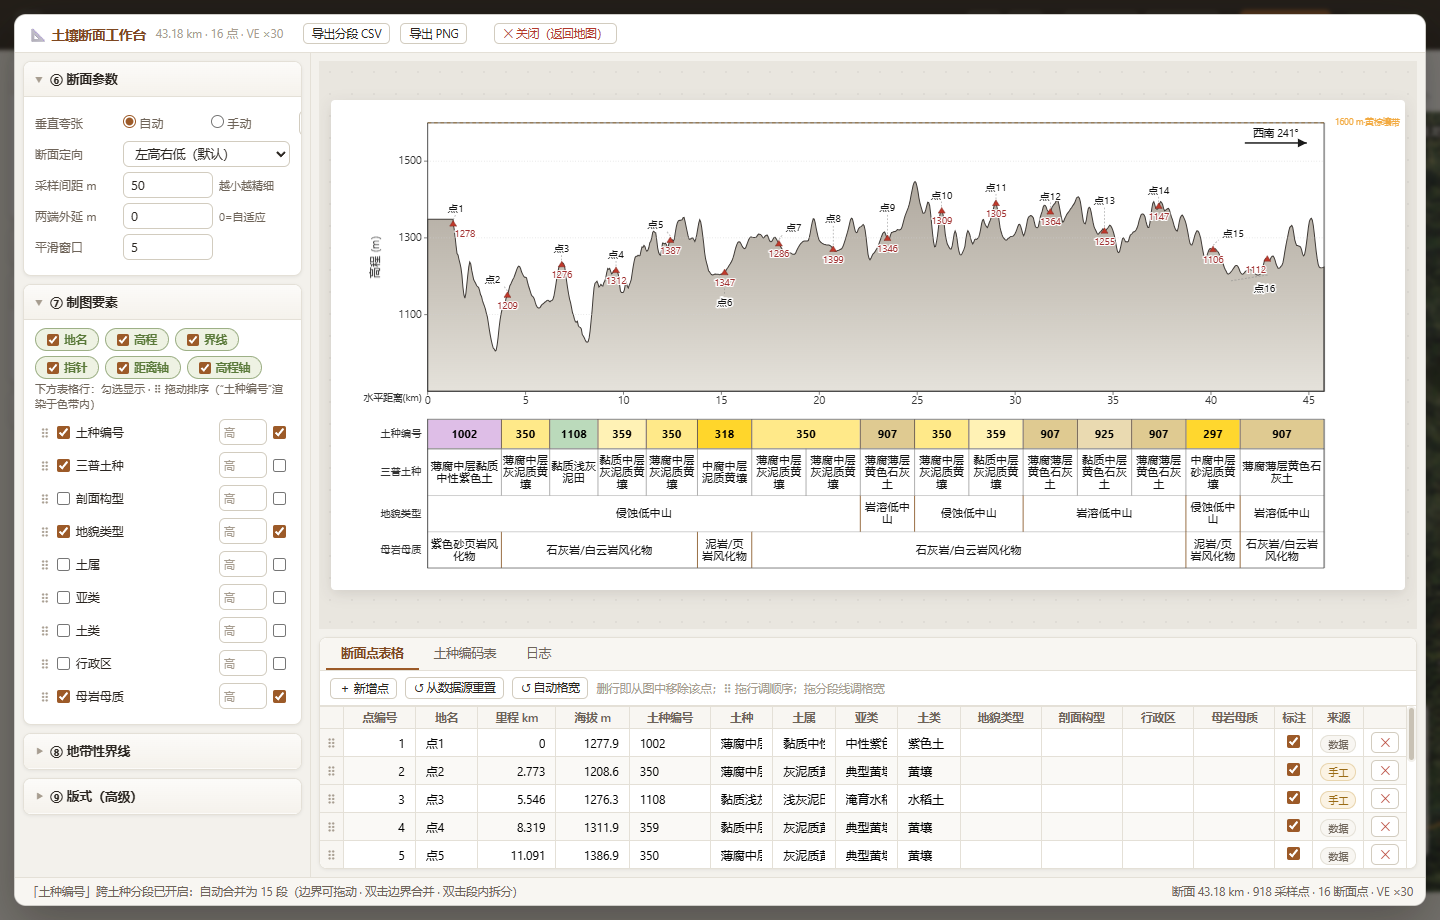
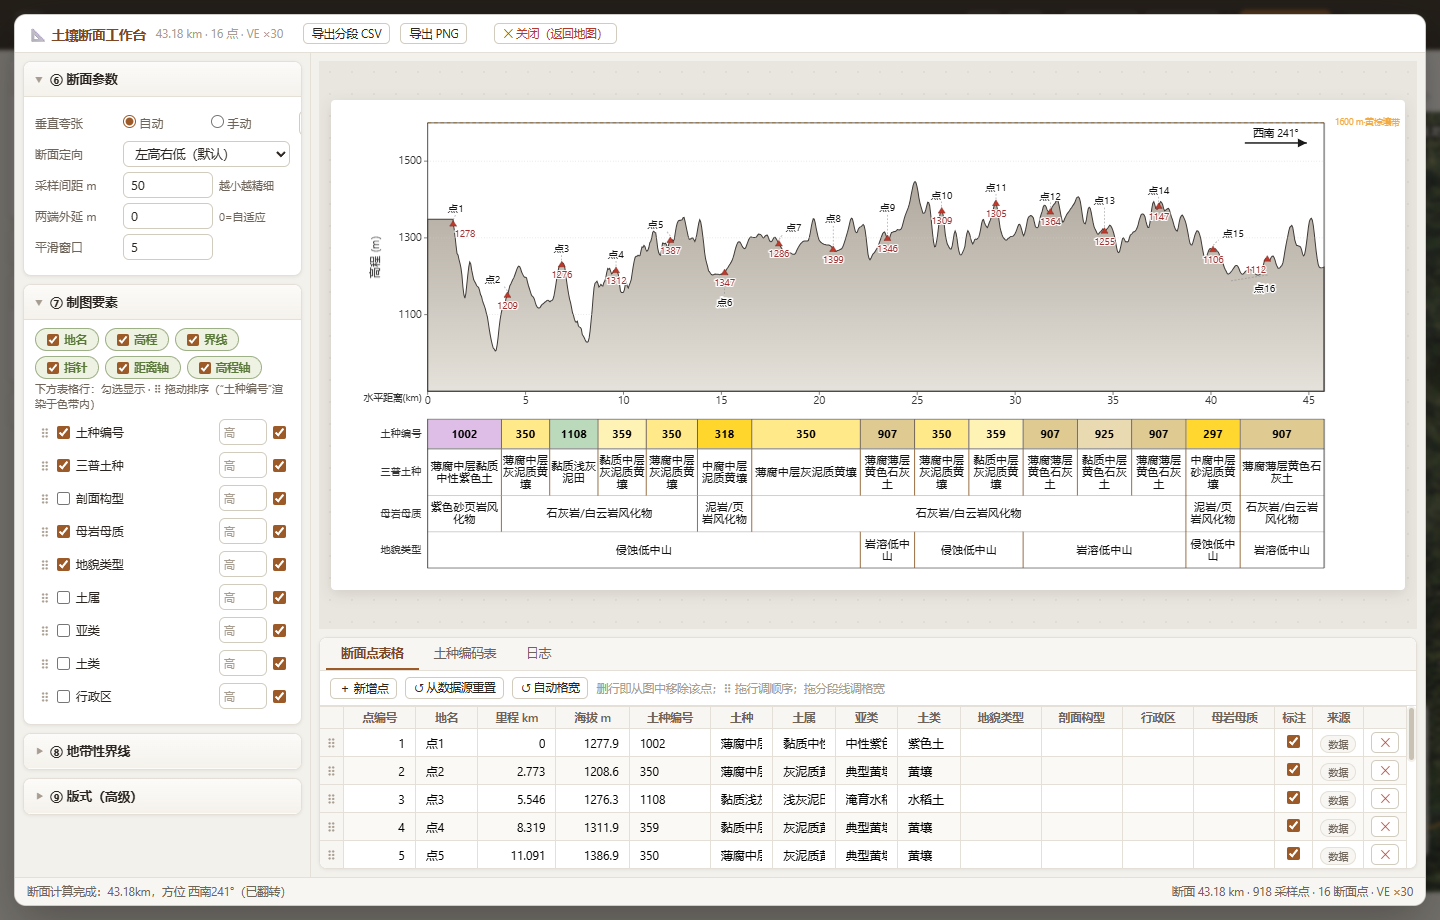
feat: 默认行序调整——母岩母质置于地貌类型之前，四行（编号/土种/母岩/地貌）默认显示；README 截图同步

diff --git a/dist/app.js b/dist/app.js
@@ -88,12 +88,12 @@ const S = {
       { key: "code", label: "土种编号", on: true, band: true },
       { key: "tz", label: "三普土种", on: true, band: true },
       { key: "profile", label: "剖面构型", on: false, band: true },
-      { key: "geo", label: "地貌类型", on: false, band: true },
+      { key: "lith", label: "母岩母质", on: true, band: true },
+      { key: "geo", label: "地貌类型", on: true, band: true },
       { key: "ts", label: "土属", on: false, band: true },
       { key: "yl", label: "亚类", on: false, band: true },
       { key: "tl", label: "土类", on: false, band: true },
       { key: "admin", label: "行政区", on: false, band: true },
-      { key: "lith", label: "母岩母质", on: false, band: true },
     ],
     show: { names: true, elev: true, zones: true, compass: true, axis: true, elevAxis: true },
     sourceMode: "draw",   // 断面数据来源：draw=自绘当前剖面 / import=导入线点文件
